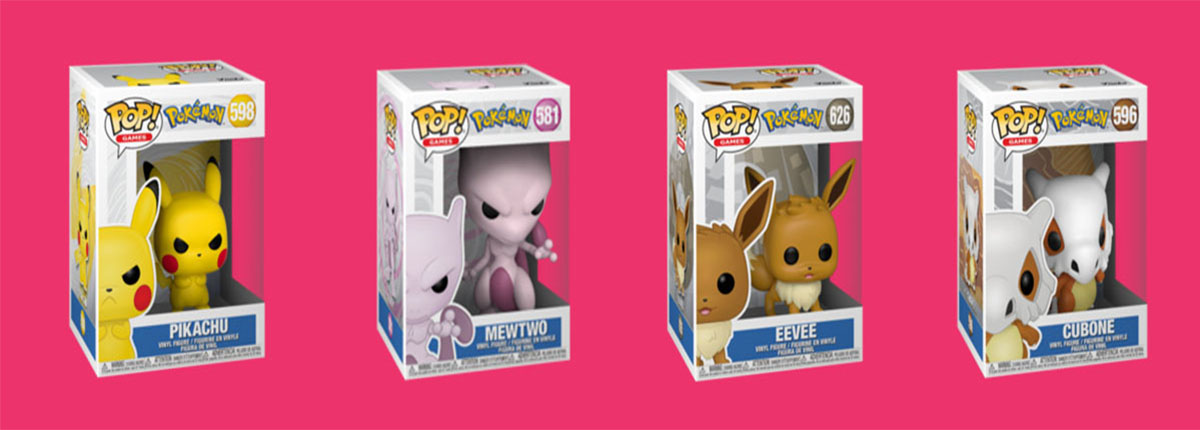
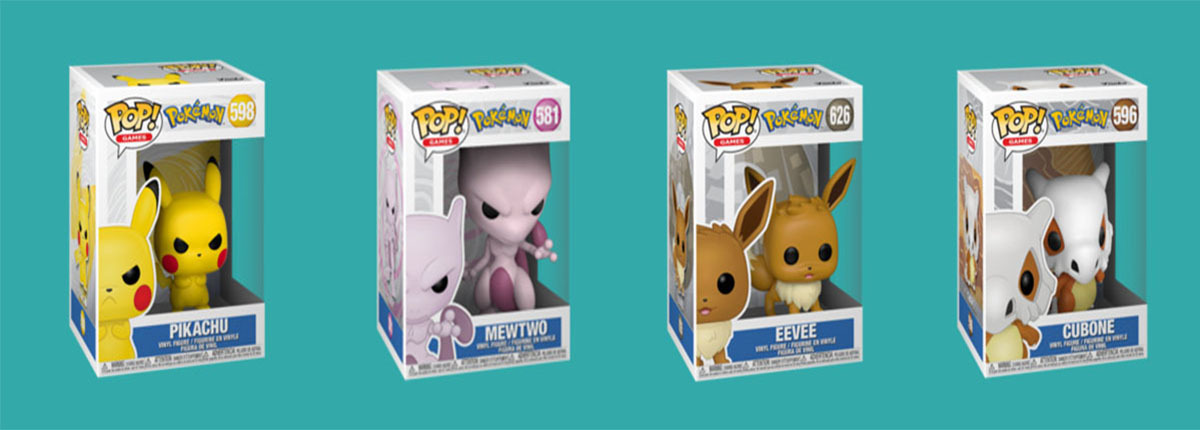
modificado carrusel y colores

diff --git a/TiendaFunkoShop/public/css/stylesheet.css b/TiendaFunkoShop/public/css/stylesheet.css
@@ -14,7 +14,7 @@ body{
 }
 header{
     display: flex;
-    background: rgb(109, 109, 109);
+    background: rgb(124, 124, 124);
     min-height: 100px;
     width:100vw;
     height:14vh;
@@ -167,6 +167,9 @@ header{
     width: 20%;
     height: 50%;
 
+}
+.slidercompleto{
+    box-shadow:0px 1px 9px -1px black
 }
 @keyframes slideimagen{
     0%{left:0;}
